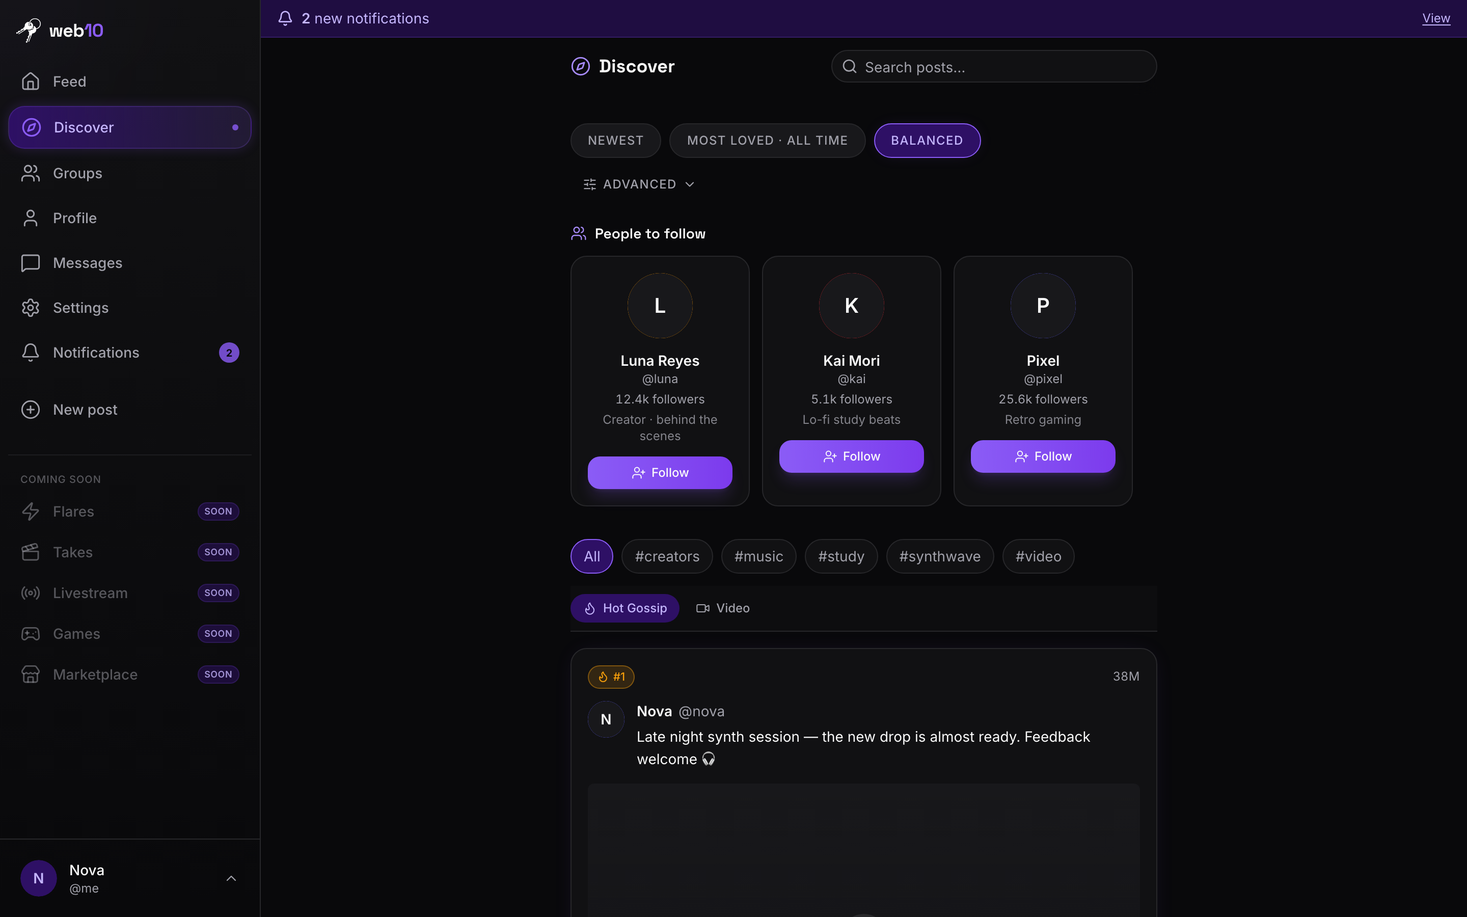
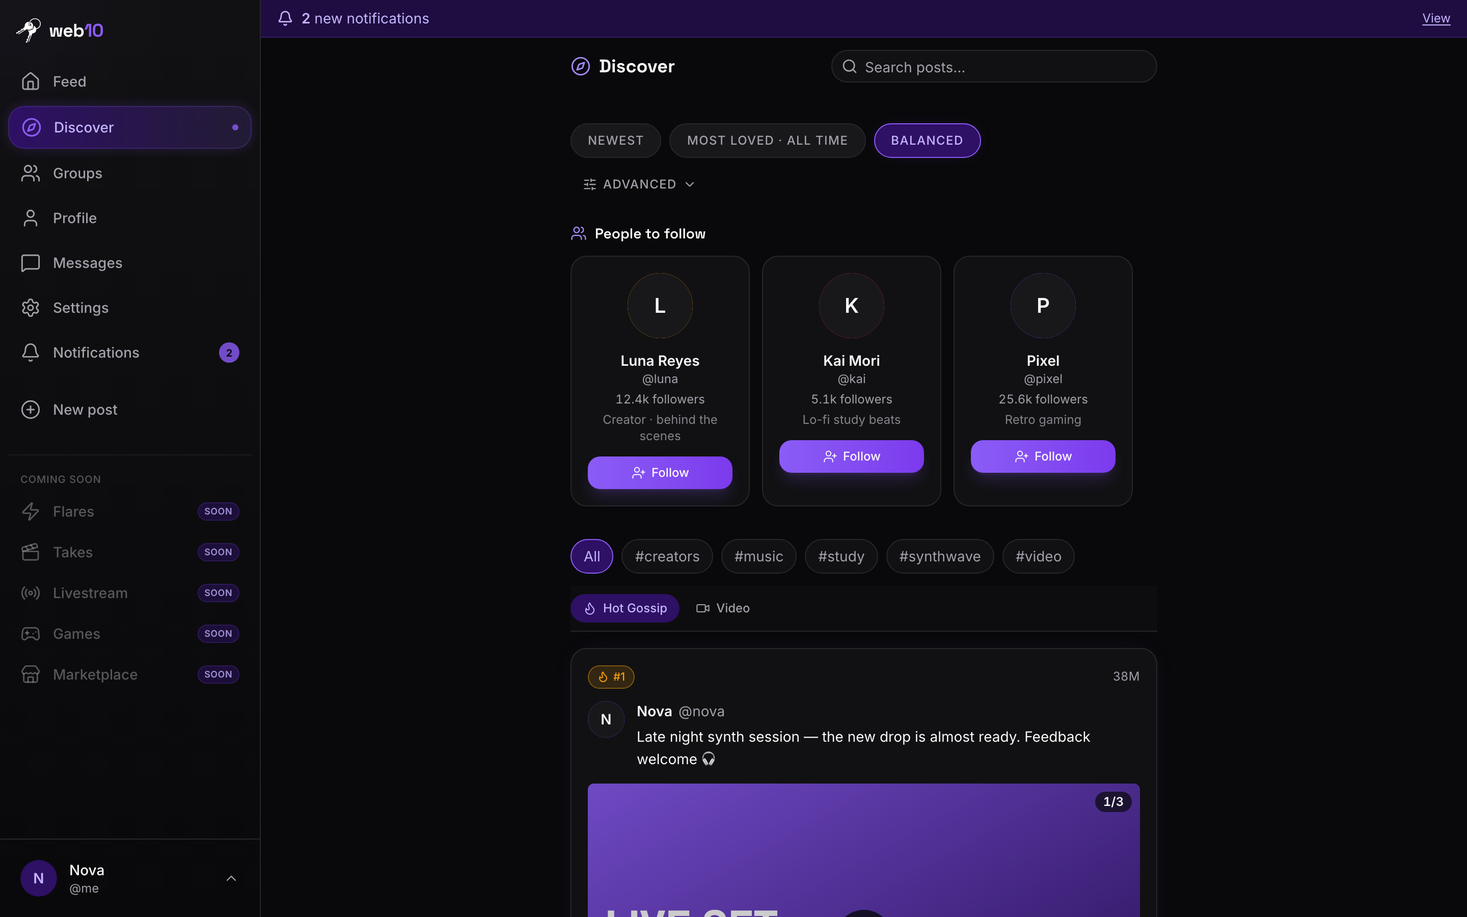
feature(web10-social): multi-media posts get a real inline carousel (MediaCarousel)
A shared MediaCarousel (fixed frame + scroll-snap strip + 1/N position indicator) replaces the dead first-item-only + count-badge behavior in the feed and discover. Video slides render through <VideoPlayer fill> (new fill prop); image slides are <img>. The frame ratio is fixed up front so swiping never shifts the layout. Also fixes a pre-existing harness bug where discover media never rendered (mock _id mismatch). KB: video-player.md multi-media open->done. 494 tests green, tsc clean.

Changed region(s): [[0.375, 0.84, 0.7812, 1.0]]

diff --git a/marketing/web10-social/src/components/Feed/MediaCarousel.tsx b/marketing/web10-social/src/components/Feed/MediaCarousel.tsx
@@ -1,0 +1,105 @@
+import { useRef, useState } from 'react';
+import { cn } from '@/lib/utils';
+import { VideoPlayer, type VideoSource } from './VideoPlayer';
+import type { MediaRecord } from '@/data/types';
+
+/**
+ * The shared multi-media carousel (video-player.md) — the inline replacement
+ * for the lightbox carousel the feed lost when it went inline (3.68.0). A
+ * fixed frame + a scroll-snap strip of all the post's media, with a position
+ * indicator (1/N) where the old dead count badge was. Video slides render
+ * through `<VideoPlayer fill>` (tap-to-play); image slides are `<img>`. Both
+ * the feed and discover compose it, so the "no surface owns a `<video>`" rule
+ * holds. The frame ratio is explicit (discover = 16:9) or the first item's
+ * natural ratio (feed), so swiping never shifts the layout.
+ */
+export interface MediaCarouselProps {
+  items: MediaRecord[];
+  /** contain = letterbox (never crops); cover = fill the frame (crops). */
+  fit?: 'contain' | 'cover';
+  /** The frame's aspect ratio (w/h). Absent → the first item's natural ratio. */
+  ratio?: number;
+  /** Cap the frame height (contain only). */
+  maxHeight?: string;
+  /** testid for the frame container. */
+  testId?: string;
+  className?: string;
+}
+
+export function MediaCarousel({ items, fit = 'contain', ratio, maxHeight, testId, className }: MediaCarouselProps) {
+  const stripRef = useRef<HTMLDivElement>(null);
+  const [index, setIndex] = useState(0);
+  const count = items.length;
+  const first = items[0];
+  const frameRatio = ratio ?? (first?.width && first?.height ? first.width / first.height : 4 / 3);
+
+  const onScroll = () => {
+    const el = stripRef.current;
+    if (!el || el.clientWidth === 0) return;
+    const i = Math.round(el.scrollLeft / el.clientWidth);
+    setIndex(Math.min(count - 1, Math.max(0, i)));
+  };
+
+  return (
+    <div
+      data-testid={testId}
+      className={cn('bg-elevated relative overflow-hidden', className)}
+      style={{ aspectRatio: frameRatio, maxHeight }}
+    >
+      <div
+        ref={stripRef}
+        onScroll={onScroll}
+        data-testid={testId ? `${testId}-strip` : undefined}
+        className="flex h-full w-full snap-x snap-mandatory overflow-x-auto overscroll-x-contain [-ms-overflow-style:none] [scrollbar-width:none] [&::-webkit-scrollbar]:hidden"
+        role="group"
+        aria-label={`${count} media items`}
+      >
+        {items.map((item, i) => {
+          const isVideo = item.mime_type?.startsWith('video/');
+          // Carousel slides play the direct file (tap-to-play, fill). The full
+          // HLS rack is the single-video viewing surface, not a carousel slide.
+          const source: VideoSource = {
+            type: 'file',
+            url: item.url,
+            poster: item.thumbnail_url,
+            width: item.width,
+            height: item.height,
+            durationSeconds: item.duration_seconds,
+          };
+          return (
+            <div key={item._id || i} className="h-full w-full shrink-0 snap-start">
+              {isVideo ? (
+                <VideoPlayer
+                  source={source}
+                  mode="inline"
+                  fit={fit}
+                  fill
+                  showDuration={false}
+                  testId={testId ? `${testId}-video-${i}` : undefined}
+                />
+              ) : (
+                <img
+                  src={item.thumbnail_url || item.url}
+                  alt={item.alt_text || ''}
+                  className={cn('h-full w-full', fit === 'cover' ? 'object-cover' : 'object-contain')}
+                  loading="lazy"
+                  data-testid={testId ? `${testId}-image-${i}` : undefined}
+                />
+              )}
+            </div>
+          );
+        })}
+      </div>
+
+      {count > 1 && (
+        <div
+          className="absolute right-2 top-2 flex items-center justify-center rounded-full bg-background/70 px-2 py-0.5 text-xs font-semibold tabular-nums text-foreground backdrop-blur-sm"
+          data-testid={testId ? `${testId}-position` : 'media-position'}
+          aria-label={`Item ${index + 1} of ${count}`}
+        >
+          {index + 1}/{count}
+        </div>
+      )}
+    </div>
+  );
+}

diff --git a/marketing/web10-social/src/components/Feed/VideoPlayer.tsx b/marketing/web10-social/src/components/Feed/VideoPlayer.tsx
@@ -70,12 +70,14 @@ export interface VideoPlayerProps {
   maxHeight?: string;
   /** Hide the inline duration badge (a surface that shows its own time badge). */
   showDuration?: boolean;
+  /** Fill a parent frame (w-full h-full, no own aspect-ratio) — for carousel slides. */
+  fill?: boolean;
   /** testid for the outer container — surfaces keep their existing testids. */
   testId?: string;
   className?: string;
 }
 
-export function VideoPlayer({ source, mode = 'inline', fit = 'contain', ratio, maxHeight, showDuration = true, testId, className }: VideoPlayerProps) {
+export function VideoPlayer({ source, mode = 'inline', fit = 'contain', ratio, maxHeight, showDuration = true, fill = false, testId, className }: VideoPlayerProps) {
   LOG('video player — source:', source.type, 'mode:', mode, 'fit:', fit, 'ratio:', ratio ?? 'natural');
 
   // hls → the full rack (the existing HlsVideoPlayer, kept as-is).
@@ -124,6 +126,7 @@ export function VideoPlayer({ source, mode = 'inline', fit = 'contain', ratio, m
       ratio={ratio}
       maxHeight={maxHeight}
       showDuration={showDuration}
+      fill={fill}
       testId={testId}
       className={className}
     />
@@ -146,6 +149,7 @@ interface InlineVideoProps {
   ratio?: number;
   maxHeight?: string;
   showDuration?: boolean;
+  fill?: boolean;
   testId?: string;
   className?: string;
 }
@@ -157,7 +161,7 @@ interface InlineVideoProps {
  * once, and the invariant is a property of the component: **a tap toggles
  * play/pause in place and never reaches the card.**
  */
-export function InlineVideo({ url, poster, width, height, durationSeconds, fit = 'contain', ratio, maxHeight, showDuration = true, testId, className }: InlineVideoProps) {
+export function InlineVideo({ url, poster, width, height, durationSeconds, fit = 'contain', ratio, maxHeight, showDuration = true, fill = false, testId, className }: InlineVideoProps) {
   const videoRef = useRef<HTMLVideoElement>(null);
   const [playing, setPlaying] = useState(false);
 
@@ -177,15 +181,17 @@ export function InlineVideo({ url, poster, width, height, durationSeconds, fit =
   const effectiveRatio = ratio ?? (width && height ? width / height : 4 / 3);
   // 16:9 cover → the Tailwind aspect-video class (the discover/youtube tile);
   // everything else → an inline aspect-ratio (the feed's natural ratio).
-  const isAspectVideo = cover && Math.abs(effectiveRatio - 16 / 9) < 0.001;
-  const containerStyle: React.CSSProperties = isAspectVideo ? {} : { aspectRatio: effectiveRatio, maxHeight };
+  // `fill` (a carousel slide) takes its size from the parent frame — no own
+  // aspect-ratio, just w-full h-full.
+  const isAspectVideo = !fill && cover && Math.abs(effectiveRatio - 16 / 9) < 0.001;
+  const containerStyle: React.CSSProperties = fill ? {} : isAspectVideo ? {} : { aspectRatio: effectiveRatio, maxHeight };
 
   return (
     <div
       data-testid={testId}
       className={cn(
         'bg-elevated overflow-hidden group relative cursor-pointer',
-        isAspectVideo && 'aspect-video',
+        fill ? 'h-full w-full' : isAspectVideo && 'aspect-video',
         className,
       )}
       style={containerStyle}

diff --git a/marketing/web10-social/src/__tests__/mediaCarousel.test.tsx b/marketing/web10-social/src/__tests__/mediaCarousel.test.tsx
@@ -1,0 +1,51 @@
+import { describe, it, expect, vi } from 'vitest';
+import { render, screen } from '@testing-library/react';
+import '@testing-library/jest-dom';
+import { lucideMock } from './helpers/lucideMock';
+vi.mock('lucide-react', () => lucideMock);
+
+const img = (id: string, url: string) => ({
+  _id: id, url, created_at: '', mime_type: 'image/png', width: 800, height: 600, thumbnail_url: url,
+});
+const vid = (id: string, url: string) => ({
+  _id: id, url, created_at: '', mime_type: 'video/mp4', width: 1080, height: 1920, duration_seconds: 42, thumbnail_url: url,
+});
+
+describe('MediaCarousel — the shared multi-media carousel (video-player.md)', () => {
+  it('renders every item as a slide (no more first-item-only)', async () => {
+    const { MediaCarousel } = await import('@/components/Feed/MediaCarousel');
+    render(<MediaCarousel items={[img('a', 'http://x/a.png'), img('b', 'http://x/b.png'), img('c', 'http://x/c.png')]} testId="mc" />);
+    expect(screen.getByTestId('mc-image-0')).toBeInTheDocument();
+    expect(screen.getByTestId('mc-image-1')).toBeInTheDocument();
+    expect(screen.getByTestId('mc-image-2')).toBeInTheDocument();
+  });
+
+  it('shows a position indicator (1/N) for multi-item, none for single', async () => {
+    const { MediaCarousel } = await import('@/components/Feed/MediaCarousel');
+    const { unmount } = render(<MediaCarousel items={[img('a', 'http://x/a.png'), img('b', 'http://x/b.png')]} testId="mc2" />);
+    expect(screen.getByTestId('mc2-position')).toHaveTextContent('1/2');
+    unmount();
+    render(<MediaCarousel items={[img('a', 'http://x/a.png')]} testId="mc3" />);
+    expect(screen.queryByTestId('mc3-position')).toBeNull();
+  });
+
+  it('renders a video slide through <VideoPlayer fill> — tap-to-play, fills the frame', async () => {
+    const { MediaCarousel } = await import('@/components/Feed/MediaCarousel');
+    render(<MediaCarousel items={[img('a', 'http://x/a.png'), vid('v', 'http://x/v.mp4')]} fit="cover" ratio={16 / 9} testId="mc4" />);
+    const videoSlide = screen.getByTestId('mc4-video-1');
+    expect(videoSlide).toBeInTheDocument();
+    // Fill mode: the slide fills the frame (w-full h-full, no own aspect-ratio).
+    expect(videoSlide.className).toMatch(/h-full/);
+    expect(videoSlide.className).toMatch(/w-full/);
+    expect(videoSlide.querySelector('video')?.getAttribute('src')).toBe('http://x/v.mp4');
+  });
+
+  it('cover fit crops (object-cover), contain letterboxes (object-contain)', async () => {
+    const { MediaCarousel } = await import('@/components/Feed/MediaCarousel');
+    const { unmount } = render(<MediaCarousel items={[img('a', 'http://x/a.png')]} fit="cover" testId="mc5" />);
+    expect(screen.getByTestId('mc5-image-0').className).toMatch(/object-cover/);
+    unmount();
+    render(<MediaCarousel items={[img('a', 'http://x/a.png')]} fit="contain" testId="mc6" />);
+    expect(screen.getByTestId('mc6-image-0').className).toMatch(/object-contain/);
+  });
+});

diff --git a/marketing/web10-social/src/components/Feed/FeedScreen.tsx b/marketing/web10-social/src/components/Feed/FeedScreen.tsx
@@ -31,6 +31,7 @@ import { CommentThread } from './CommentThread';
 import { TextWithLinks } from './LinkEmbed';
 import { AdBlock } from './AdBlock';
 import { VideoPlayer, sourceFromMedia } from './VideoPlayer';
+import { MediaCarousel } from './MediaCarousel';
 import { toast, errorMessage } from '@/components/shared/Toast';
 
 const LOG = (...args: unknown[]) => console.log('[social:feed]', ...args);
@@ -144,23 +145,13 @@ function MediaGrid({ mediaItems }: { mediaItems: MediaRecord[] }) {
   const count = mediaItems.length;
   const first = mediaItems[0];
 
-  // Option (b): the first item renders at its natural aspect ratio; the rest
-  // live behind a count badge — tapping the card opens the lightbox, which
-  // already has a working carousel for the full set.
-  return (
-    <div className="relative">
-      <MediaItem media={first} />
-      {count > 1 && (
-        <div
-          className="absolute top-2 right-2 flex items-center justify-center min-w-6 h-6 px-2 rounded-full bg-background/70 backdrop-blur-sm text-xs font-semibold text-foreground tabular-nums pointer-events-none"
-          data-testid="media-count-badge"
-          aria-label={`${count} items`}
-        >
-          {count}
-        </div>
-      )}
-    </div>
-  );
+  // Single item: the natural-ratio MediaItem (unchanged). Multi-item: the
+  // shared inline carousel (video-player.md) — all items swipe in a fixed
+  // frame, with a position indicator where the old dead count badge was.
+  if (count === 1) {
+    return <MediaItem media={first} />;
+  }
+  return <MediaCarousel items={mediaItems} fit="contain" maxHeight="60vh" testId="media-carousel" />;
 }
 
 interface PostCardProps {

diff --git a/marketing/web10-social/src/__tests__/socialScreens.test.tsx b/marketing/web10-social/src/__tests__/socialScreens.test.tsx
@@ -153,7 +153,7 @@ describe('FeedScreen', () => {
     expect(ar).toBeCloseTo(4 / 3, 5);
   });
 
-  it('multi-media posts show the first item + a count badge (option b)', async () => {
+  it('multi-media posts render an inline carousel with a position indicator (all items reachable)', async () => {
     const { readFeedPage } = await import('@/data');
     vi.mocked(readFeedPage).mockResolvedValueOnce({
       posts: [
@@ -175,13 +175,15 @@ describe('FeedScreen', () => {
         <FeedScreen />
       </MemoryRouter>,
     );
+    // All three items render in the carousel (the old dead count badge is gone).
     await waitFor(() => {
-      expect(screen.getByTestId('media-count-badge')).toBeInTheDocument();
+      expect(screen.getByTestId('media-carousel')).toBeInTheDocument();
     });
-    // Only the first item renders in the card; the rest are reachable from the
-    // author's profile grid (the lightbox carousel lives there, not the feed).
-    expect(screen.getByTestId('media-count-badge')).toHaveTextContent('3');
-    expect(screen.getAllByTestId('media-image')).toHaveLength(1);
+    expect(screen.getByTestId('media-carousel-image-0')).toBeInTheDocument();
+    expect(screen.getByTestId('media-carousel-image-1')).toBeInTheDocument();
+    expect(screen.getByTestId('media-carousel-image-2')).toBeInTheDocument();
+    // The position indicator shows 1/3 where the old "3" badge was.
+    expect(screen.getByTestId('media-carousel-position')).toHaveTextContent('1/3');
   });
 
   it('tapping a video in the feed plays it inline and does NOT open the lightbox', async () => {

diff --git a/marketing/web10-social/screenshots/harness/mock-data.ts b/marketing/web10-social/screenshots/harness/mock-data.ts
@@ -596,11 +596,13 @@ function creative(label: string, w: number, h: number, from: string, to: string,
   };
 }
 
-// Media records keyed by the doc_id the post's media_refs point at.
+// Media records keyed by the doc_id the post's media_refs point at. The _id
+// must match the key (and the post's ref) — the discover screen filters
+// resolved media by `m._id === the post's ref doc_id`.
 const DISCOVER_MEDIA: Record<string, Record<string, unknown>> = {
-  'dm-landscape': creative('LIVE SET', 1280, 720, '#8b5cf6', '#2e1065'),
-  'dm-portrait': creative('VERTICAL', 720, 1280, '#7c3aed', '#4c1d95'),
-  'dm-clip3': creative('STILL', 1600, 900, '#a78bfa', '#1e1b4b'),
+  'dm-landscape': { ...creative('LIVE SET', 1280, 720, '#8b5cf6', '#2e1065'), _id: 'dm-landscape' },
+  'dm-portrait': { ...creative('VERTICAL', 720, 1280, '#7c3aed', '#4c1d95'), _id: 'dm-portrait' },
+  'dm-clip3': { ...creative('STILL', 1600, 900, '#a78bfa', '#1e1b4b'), _id: 'dm-clip3' },
 };
 
 const DISCOVER_POSTS: SeedDiscoverPost[] = [
@@ -642,6 +644,19 @@ const DISCOVER_POSTS: SeedDiscoverPost[] = [
     comments: 12,
     reposts: 0,
     media_refs: ['dm-clip3'],
+  },
+  {
+    _id: 'dp-4',
+    author: 'nova',
+    author_username: 'nova',
+    author_provider: 'web10',
+    text: 'Three frames from the set — swipe through the full run.',
+    created_at: minsAgo(12),
+    tags: ['synthwave', 'video'],
+    likes: 210,
+    comments: 33,
+    reposts: 8,
+    media_refs: ['dm-landscape', 'dm-portrait', 'dm-clip3'],
   },
 ];
 

diff --git a/marketing/web10-social/src/components/Discover/DiscoverScreen.tsx b/marketing/web10-social/src/components/Discover/DiscoverScreen.tsx
@@ -49,6 +49,7 @@ import { MARKETING_ORIGIN } from '@/lib/origins';
 import { PRESETS, getPreset, knobStateToSort, scorePost, FIXED_CHARACTER_DETEENT, type PresetId, type KnobState, type PowerMeanSortConfig, defaultKnobState } from '@/lib/powerMean';
 import { KnobRack } from './KnobRack';
 import { VideoPlayer, sourceFromMedia } from '@/components/Feed/VideoPlayer';
+import { MediaCarousel } from '@/components/Feed/MediaCarousel';
 import { CommentThread } from '@/components/Feed/CommentThread';
 
 const LOG = (...args: unknown[]) => console.log('[social:discover]', ...args);
@@ -441,7 +442,14 @@ function DiscoverCard({
         {/* Media */}
         {mediaType && (
           <div className="mt-3 overflow-hidden rounded-md">
-            {isVideoMedia && firstMedia?.url ? (
+            {mediaItems.length > 1 ? (
+              <MediaCarousel
+                items={mediaItems}
+                fit="cover"
+                ratio={16 / 9}
+                testId="discover-media-carousel"
+              />
+            ) : isVideoMedia && firstMedia?.url ? (
               <VideoPlayer
                 source={sourceFromMedia(firstMedia)}
                 mode="inline"

diff --git a/knowledge/changelogs/CHANGELOG.md b/knowledge/changelogs/CHANGELOG.md
@@ -1,3 +1,6 @@
+3.82.0 || 10.09.2026
+feature(web10-social) + test(web10-social) + docs(kb): **multi-media posts get a real inline carousel — the feed's dead count badge is gone** — the follow-up to 3.81.0 (the shared `<VideoPlayer>`). **The gap:** since the feed went inline (3.68.0), a multi-item post showed **only the first item** + a `pointer-events-none` count badge that promised "N" but did nothing — a regression (the lightbox carousel that used to reach items 2..N was dropped) and a dead affordance (design.md: "no dead anything"). Discover had the same first-item-only behavior. **The fix (KB-first — `video-player.md` updated):** a new shared `MediaCarousel` (`src/components/Feed/MediaCarousel.tsx`) — a **fixed frame** (explicit ratio, or the first item's natural ratio) + a **scroll-snap strip** of all the post's media + a **`1/N` position indicator** where the dead badge was. Video slides render through `<VideoPlayer fill>` (a new `fill` prop — the slide fills the frame, `w-full h-full`, no own aspect-ratio, still tap-to-play); image slides are `<img>`. The frame ratio is fixed up front so **swiping never shifts the layout** (design.md: "nothing shifts"). Both the feed's `MediaGrid` (single item unchanged; multi-item → carousel, `contain` + 60vh cap) and Discover's card (multi-item → carousel, `cover` + 16:9) compose it — the "no surface owns a `<video>`" rule holds. **Tests:** new `mediaCarousel.test.tsx` (4: every item renders as a slide; the `1/N` indicator shows for multi-item and is absent for single; a video slide renders through `<VideoPlayer fill>` and fills the frame; cover crops vs contain letterboxes) + the feed's "multi-media shows first item + count badge" test re-pinned to the carousel intent (all three items render, `1/3` indicator). 494 web10-social tests green, `tsc --noEmit` clean. **Still open (in the KB):** real YouTube embeds (data-model question before rendering).
+
 3.81.0 || 10.09.2026
 feature(web10-social) + test(web10-social) + docs(kb): **one shared video surface — `<VideoPlayer>` — and Discover goes inline (no more modal yank)** — operator: "when i click this video in the discover a modal pops up, really takes me out of my scrolling" + "platform wide the video is kind of inconsistent … the modal is good on the profile but everywhere else the video should play inline." **The problem:** video was rendered by N divergent copies — the feed's `MediaItem` (inline tap-to-play, `object-contain`, had `stopPropagation`), Discover's `MediaVideo` (inline tap-to-play, `object-cover` 16:9, **missing** `stopPropagation` → a tap both played the video AND bubbled to the card's `onClick` → the `PostLightbox` modal = the yank), and Groups' `PostMedia` (native `<controls>`). The `HlsVideoPlayer` (the full rack) was already shared (feed + lightbox), but the *inline* tap-to-play — 90% of social video — was triplicated and had drifted. **The fix (KB-first — `knowledge/knowledge-base/web10-v3/social/video-player.md` specs it, wired into the web10-v3 README):** a new shared `<VideoPlayer>` (`src/components/Feed/VideoPlayer.tsx`) factored along the two axes that vary — **source** (`hls` | `file` | `youtube`, a discriminated union; `sourceFromMedia()` builds it from a `MediaRecord`) × **mode** (`inline` tap-to-play | `full` the hls.js rack) — plus `fit` (`contain`/`cover`) + `ratio` + `showDuration`. The rule: **no surface owns a `<video>`; every surface composes `<VideoPlayer>`.** The inline tap-to-play now lives once in `InlineVideo`, and the invariant is a property of the component: **a tap toggles play/pause in place and `stopPropagation`s — it never reaches the card.** `hls` delegates to the existing `HlsVideoPlayer` (kept as-is — it is the `hls` source renderer, and it's unit-tested standalone); `youtube` is a wired-but-unused source case (an `<iframe>` — the Shorts path, a source case not a component). **The two modalities (where, not how):** *inline* = a stream (Feed, Discover, Groups) — video plays in place, comments expand in-card; *modal* = a gallery (Profile grid → lightbox, deep-link) — a static poster cell, tap → `PostLightbox` (`mode="full"`). Orthogonal, they compose. **Migrations:** Feed `MediaItem` → `<VideoPlayer>` (transcoded → `hls`/full, non-transcoded → `file`/inline, `media-video` testid preserved); Discover grid `MediaVideo` → `<VideoPlayer fit=cover ratio=16/9>` + the comment count is now a button that toggles an inline `CommentThread` (the feed's pattern) + the `PostLightbox` is **removed from Discover** (no `lightboxPost` state, no `flatMediaMap`); Discover YouTube view → web10 video posts render inline in the 16:9 tile (the TikTok/Shorts wall, no lightbox); Groups `PostMedia` → `<VideoPlayer mode=inline>`; `PostLightbox`'s `LightboxVideo` → `<VideoPlayer mode=full>`. **Tests:** new `videoPlayer.test.tsx` (7: source routing hls→rack / file→inline / file+full→native controls / youtube→iframe, the 16:9 cover tile, `sourceFromMedia` transcoded→hls vs raw→file, and the stopPropagation invariant — the actual bug); the two Discover "card opens the lightbox" tests re-pinned to the new intent (card click opens **no** lightbox; the comment count toggles the inline thread; the YouTube card renders the video inline). Screenshot harness gains a `discover-youtube` screen. 478 web10-social tests green, `tsc --noEmit` clean. **Still open (in the KB):** multi-media posts (the feed's `MediaGrid` shows only item 1 — needs an inline carousel) and real YouTube embeds (a data-model question before a rendering one).
 

diff --git a/knowledge/knowledge-base/web10-v3/social/video-player.md b/knowledge/knowledge-base/web10-v3/social/video-player.md
@@ -115,11 +115,10 @@ The invariant that makes the inline modality feel right: **in `inline` mode, a t
 
 ## Open questions
 
-Decided and built: the two modalities; the one-component / two-axes shape; the inline `stopPropagation` invariant; the Discover fix (inline video plus inline `CommentThread`, no lightbox); the Discover YouTube view (web10 video posts render inline in the 16:9 tile — the TikTok/Shorts wall, no lightbox); Groups (unified to `<VideoPlayer mode="inline">`).
+Decided and built: the two modalities; the one-component / two-axes shape; the inline `stopPropagation` invariant; the Discover fix (inline video plus inline `CommentThread`, no lightbox); the Discover YouTube view (web10 video posts render inline in the 16:9 tile — the TikTok/Shorts wall, no lightbox); Groups (unified to `<VideoPlayer mode="inline">`); **multi-media posts** (the shared `MediaCarousel` — a fixed frame + scroll-snap strip of all the post's media + a `1/N` position indicator where the old dead count badge was; video slides render through `<VideoPlayer fill>`, image slides through `<img>`; composed by both the feed's `MediaGrid` and Discover's card).
 
 Still open:
 
-- **Multi-media posts** — the feed's `MediaGrid` shows only the first item; the old lightbox carousel that reached the rest is gone. In the all-inline world the card needs an inline swipe carousel (or a count-tap that expands the set in place). Affects Feed and Discover.
 - **Real YouTube embeds (Shorts)** — the `youtube` source case (an `<iframe>`) is wired into `<VideoPlayer>` but no surface uses it yet. Landing it is a data-model question first (how a post references an external YouTube id) before a rendering one.
 
 ## Reference
@@ -129,3 +128,4 @@ Still open:
 - The visual bar (tokens, states, the screenshot test): `../../../strategy/design.md`
 - The current full-rack implementation (becomes `FullControls`): `../../../../marketing/web10-social/src/components/Feed/HlsVideoPlayer.tsx`
 - The inline comment pattern the inline modality reuses: `../../../../marketing/web10-social/src/components/Feed/CommentThread.tsx`
+- The shared multi-media carousel: `../../../../marketing/web10-social/src/components/Feed/MediaCarousel.tsx`
